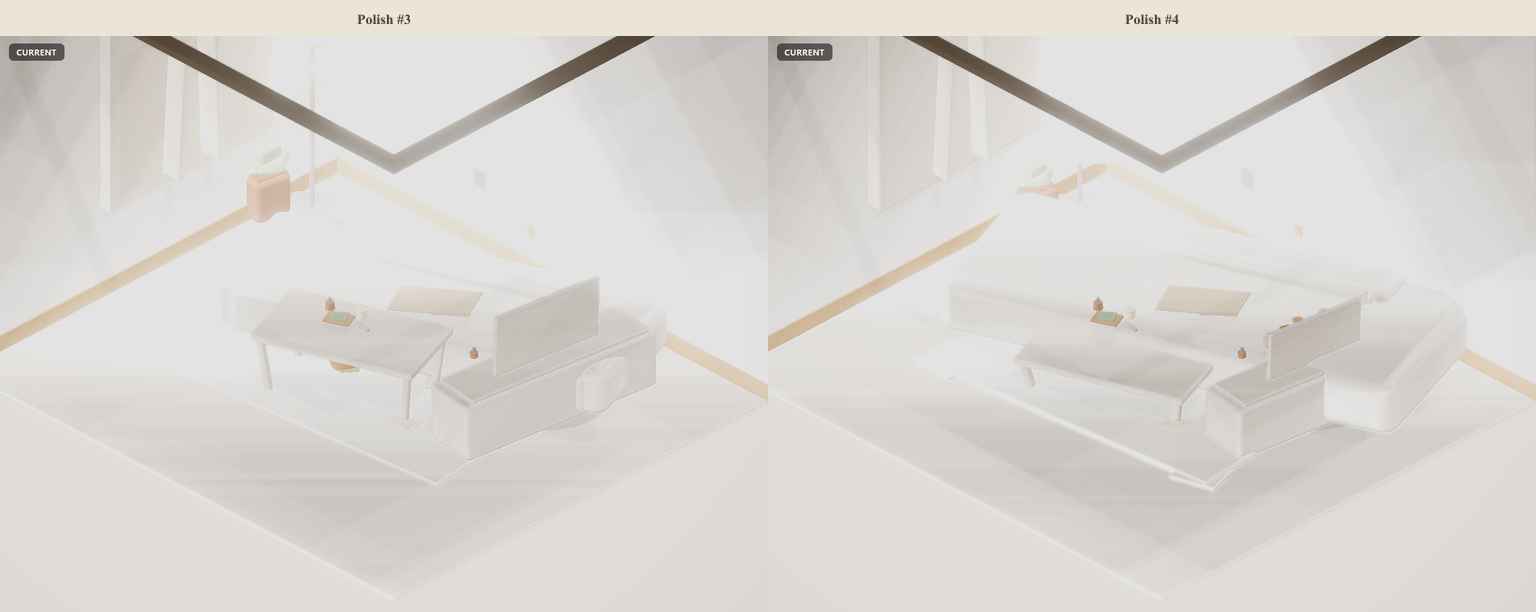
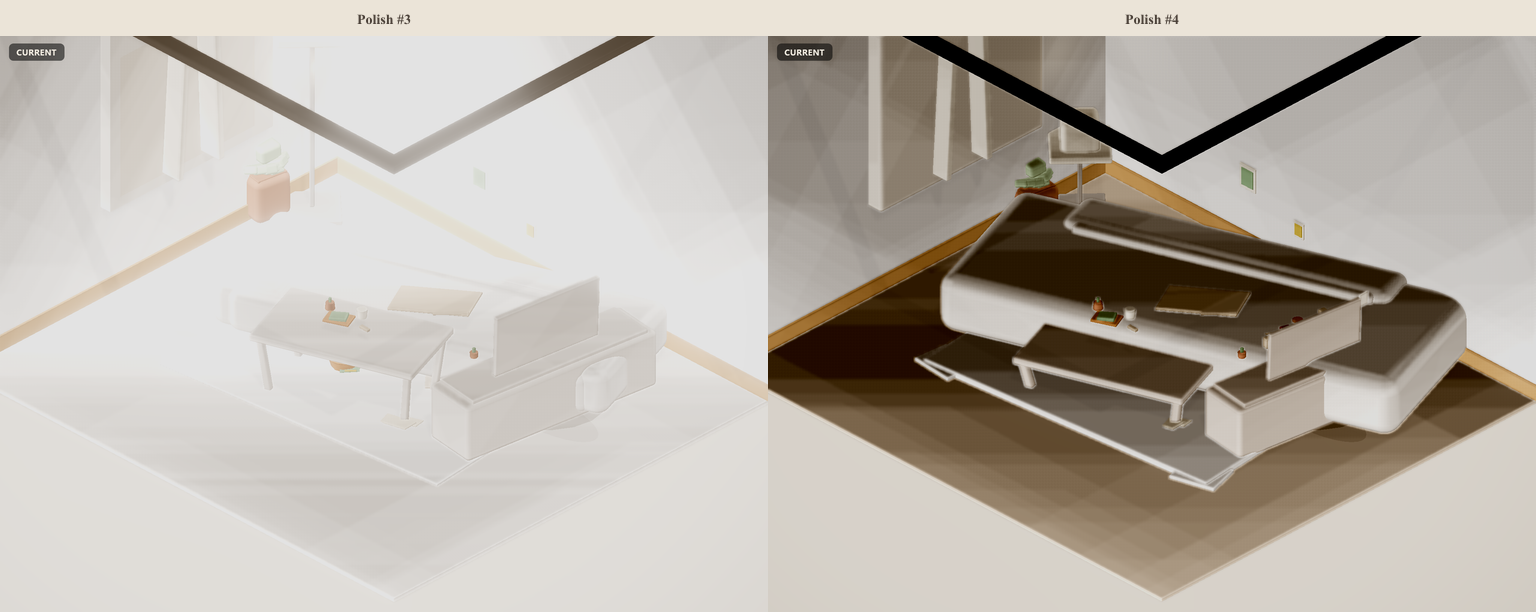
Fix blown-out APT corner scene exposure and color grading.
Stacked lights, emissive warmth, and inverted grade were washing the scene to white — rebalance toward warm wood and readable Bondee-like contrast.

diff --git a/public/apt/hero-assets/scene-material-assembly.html b/public/apt/hero-assets/scene-material-assembly.html
@@ -80,11 +80,11 @@
     const panel = document.getElementById('scene-panel');
     const r = new THREE.WebGLRenderer({ canvas: cv, antialias: true, preserveDrawingBuffer: true });
     r.setPixelRatio(Math.min(devicePixelRatio, 2));
-    r.setClearColor(0xf0e8dc, 1);
+    r.setClearColor(0xe8dfd2, 1);
     r.outputColorSpace = THREE.SRGBColorSpace;
 
     const sc = new THREE.Scene();
-    sc.background = new THREE.Color(0xf0e8dc);
+    sc.background = new THREE.Color(0xe8dfd2);
     applyPolishedLighting(THREE, sc, r);
 
     const loader = new GLTFLoader();
